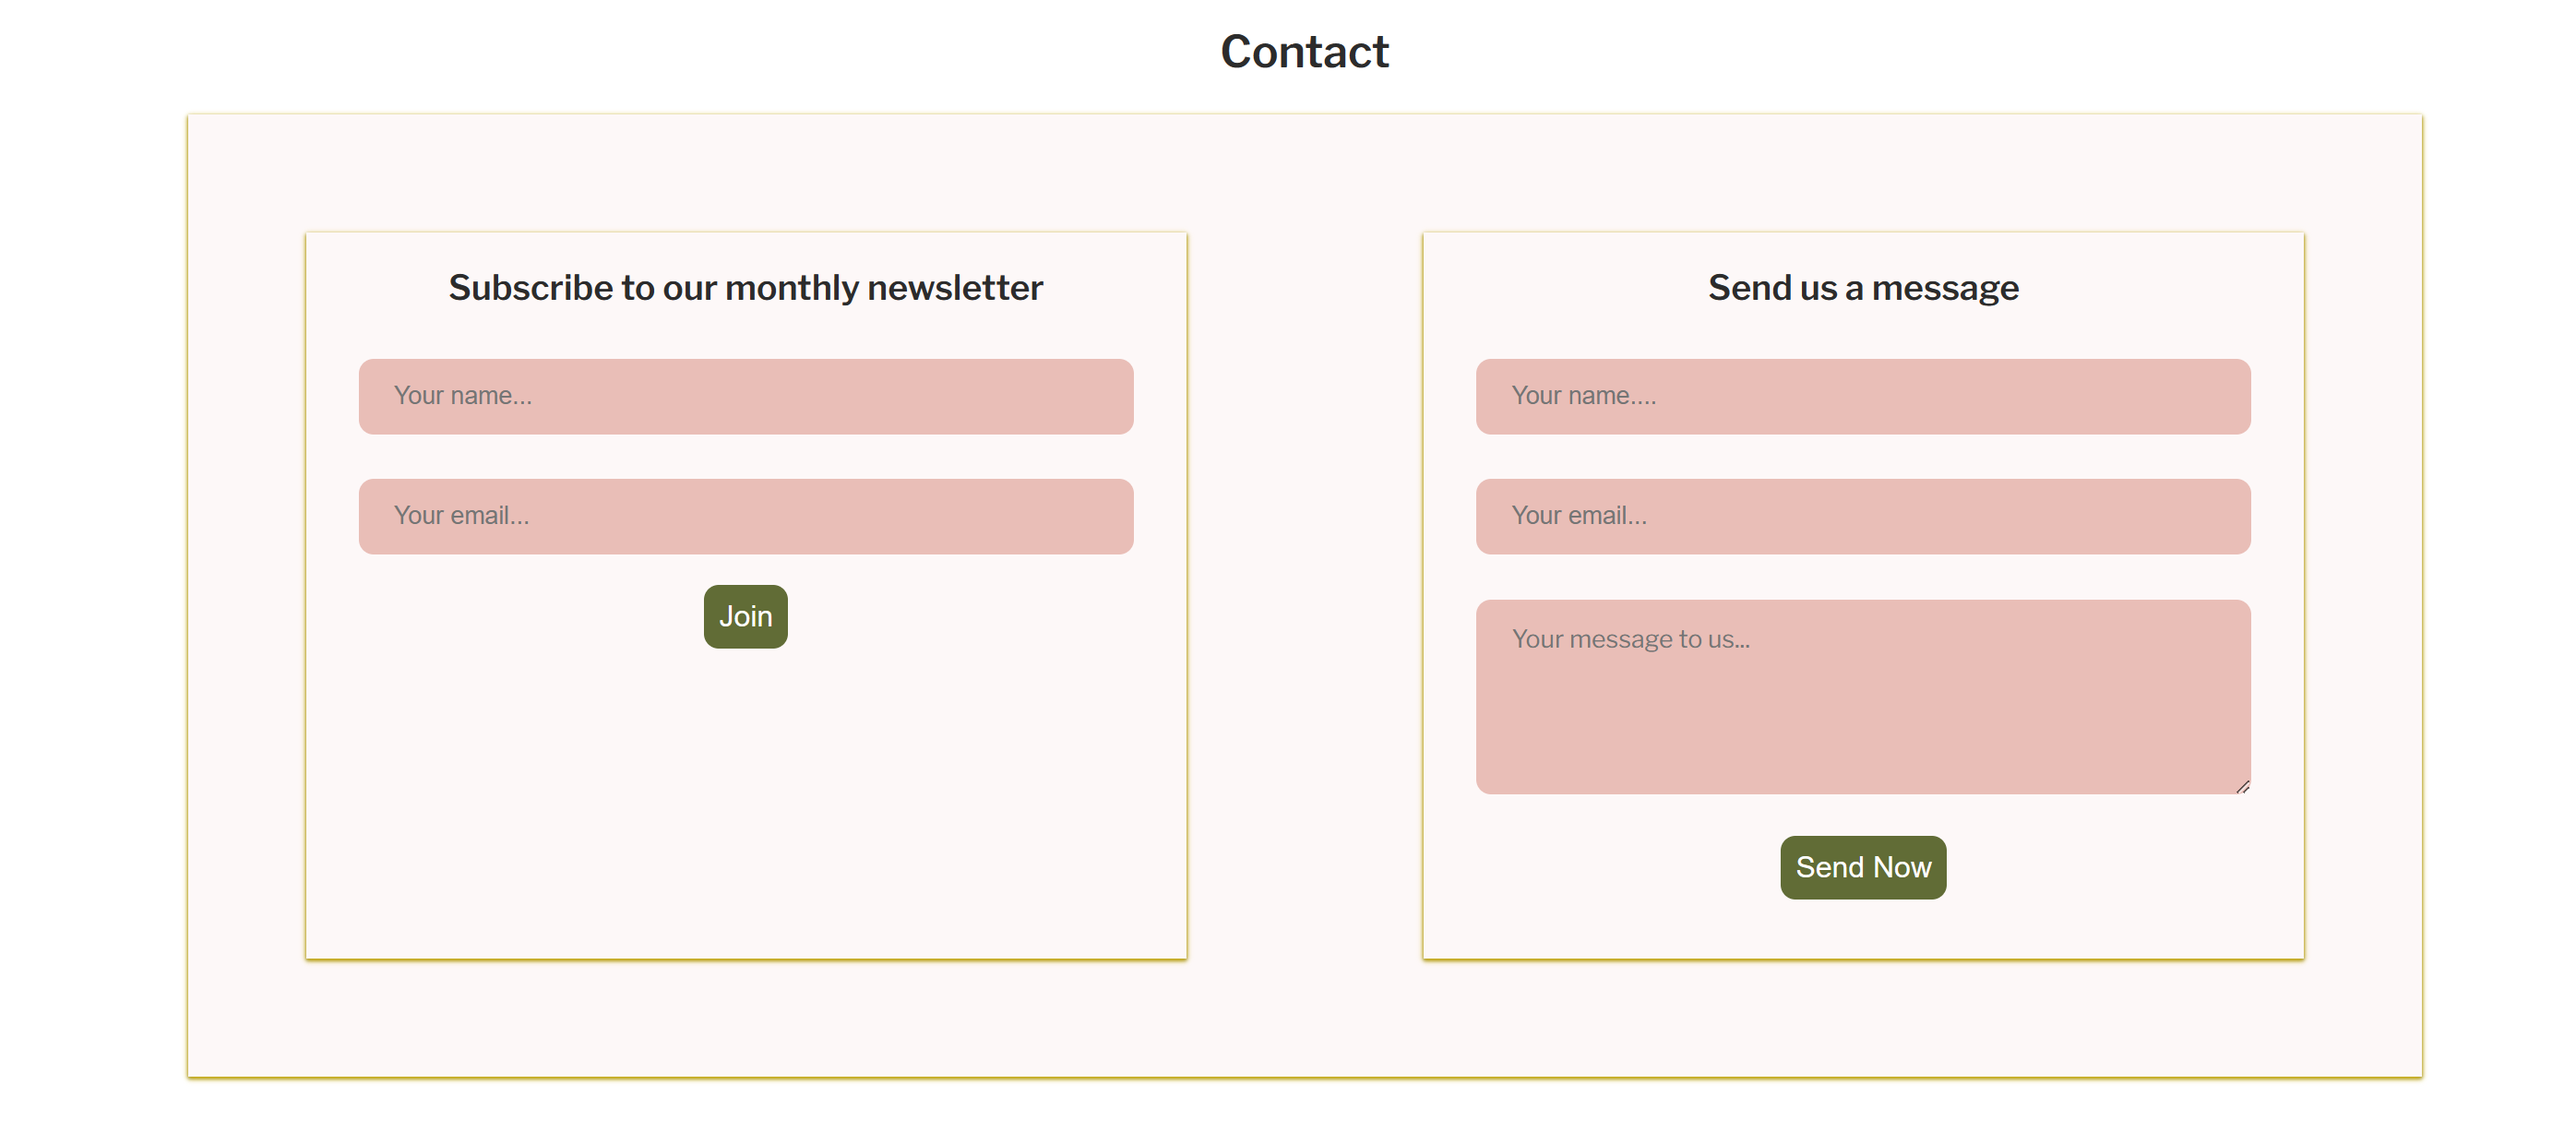
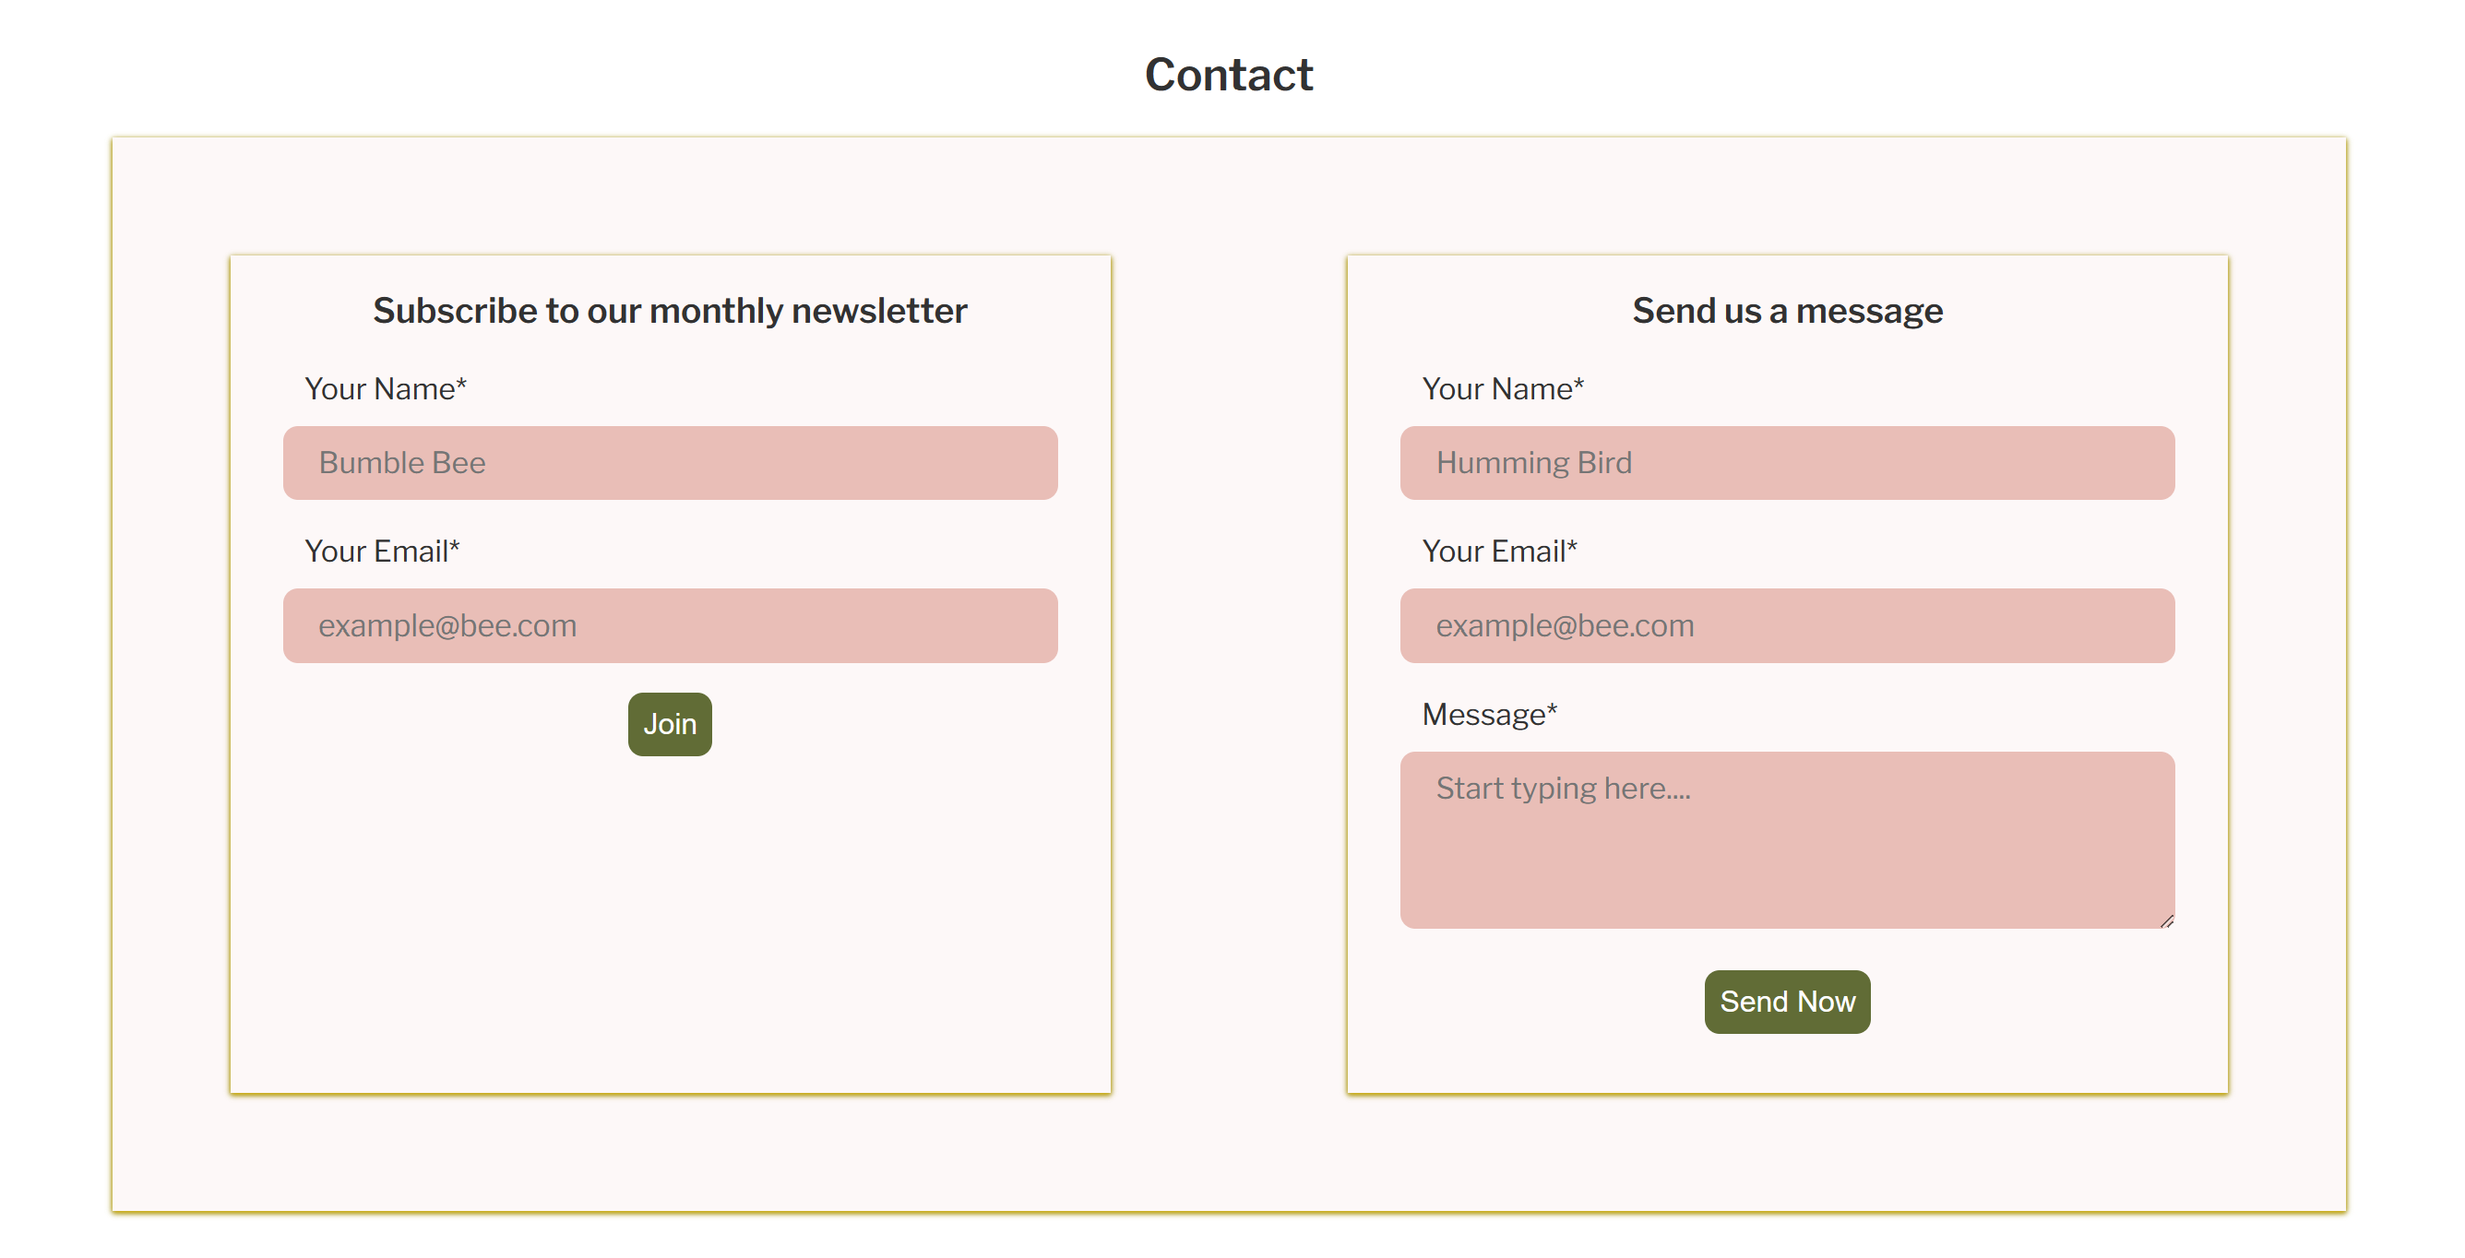
remove: input-box class from html

diff --git a/index.html b/index.html
@@ -267,14 +267,13 @@
                     <div class="input-box">
                         <label for="Name">Your Name*</label>
                         <input type="text" placeholder="Bumble Bee" required>
-                    </div>
-                    <div class="input-box">
                         <label for="email">Your Email*</label>
                         <input type="email" placeholder="example@bee.com" required>
                     </div>
                     <div class="button">
                         <input type="submit" value="Join">
                     </div>
+
                 </form>
             </div>
 
@@ -286,12 +285,8 @@
                     <div class=" input-box">
                         <label for="Name">Your Name*</label>
                         <input type="text" placeholder="Humming Bird" required>
-                    </div>
-                    <div class="input-box">
                         <label for="email">Your Email*</label>
                         <input type="email" placeholder="example@bee.com" required>
-                    </div>
-                    <div class="input-box">
                         <label for="textarea">Message*</label>
                         <textarea name="message" placeholder="Start typing here...." required></textarea>
                     </div>
